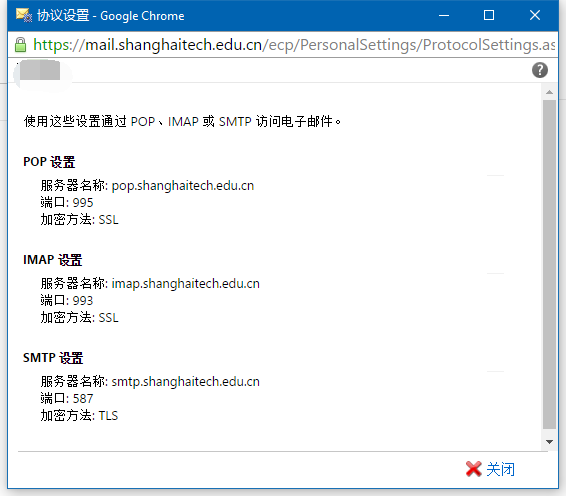
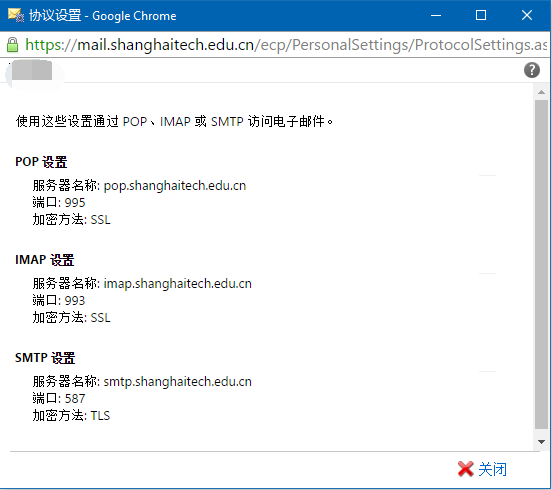
updated mail account info

Changed region(s): [[0.0, 0.0, 1.0, 1.0]]

diff --git a/src/markdown/上海科技大学2016新生手册.md b/src/markdown/上海科技大学2016新生手册.md
@@ -935,6 +935,14 @@ GitHub：[https://github.com/ShanghaitechGeekPie](https://github.com/Shanghaitec
 
 ![邮箱设置](media/emailaccount-windowsmail-4.png)
 
+此处需要填写的信息通过以下方式获得
+
+![邮箱设置](media/mailbox_account_win_0.png)
+
+![邮箱设置](media/mailbox_account_win_1.png)
+
+![邮箱设置](media/mailbox_account_win_2.png)
+
 #### Linux
 
 以Ubuntu系统为例，Thunderbird Email为系统默认的邮件软件。在Edit选项页中选择Account Settings，在左侧竖框下方的Accout Actions下拉菜单中选择Add Mail Accout，填写好自己的邮箱地址、密码之后continue，程序会自动搜索配置剩余内容，傻瓜程度与Outlook无异。
